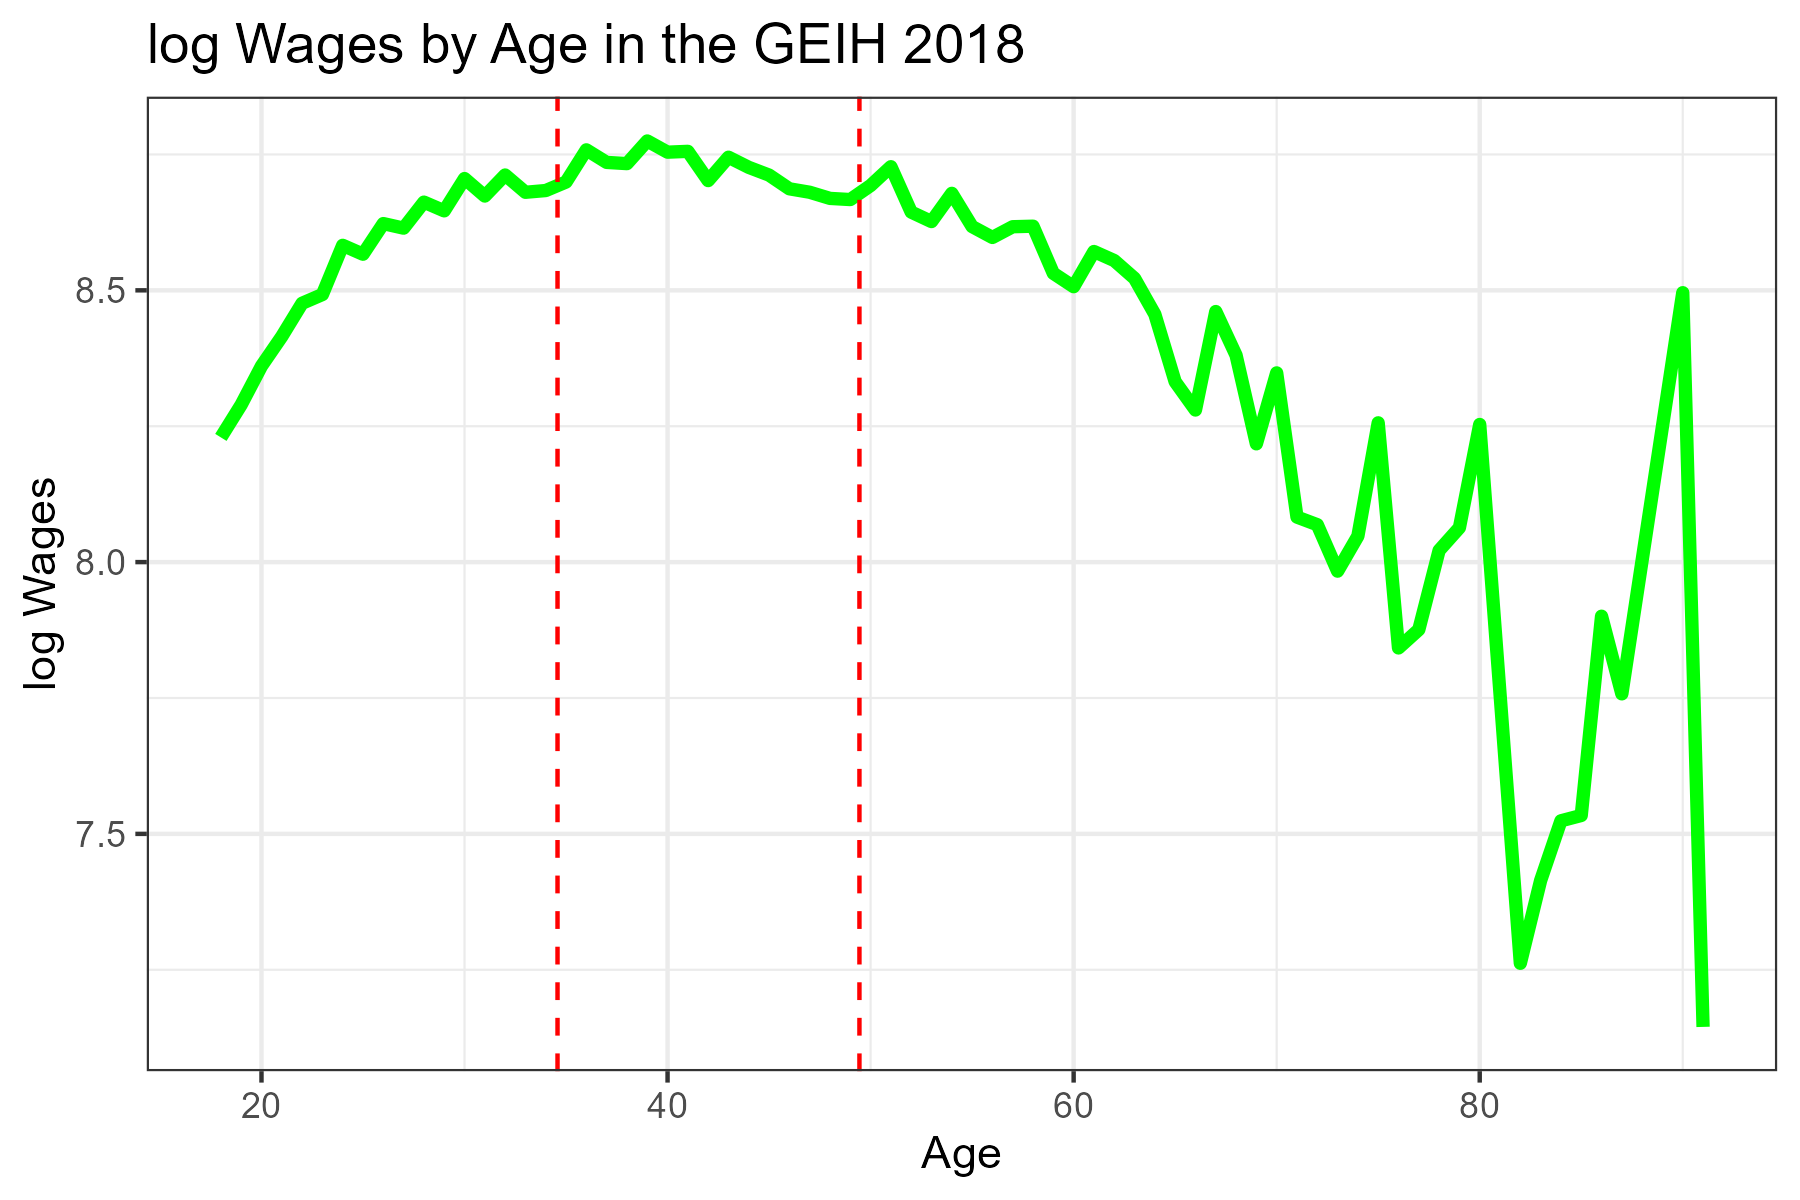
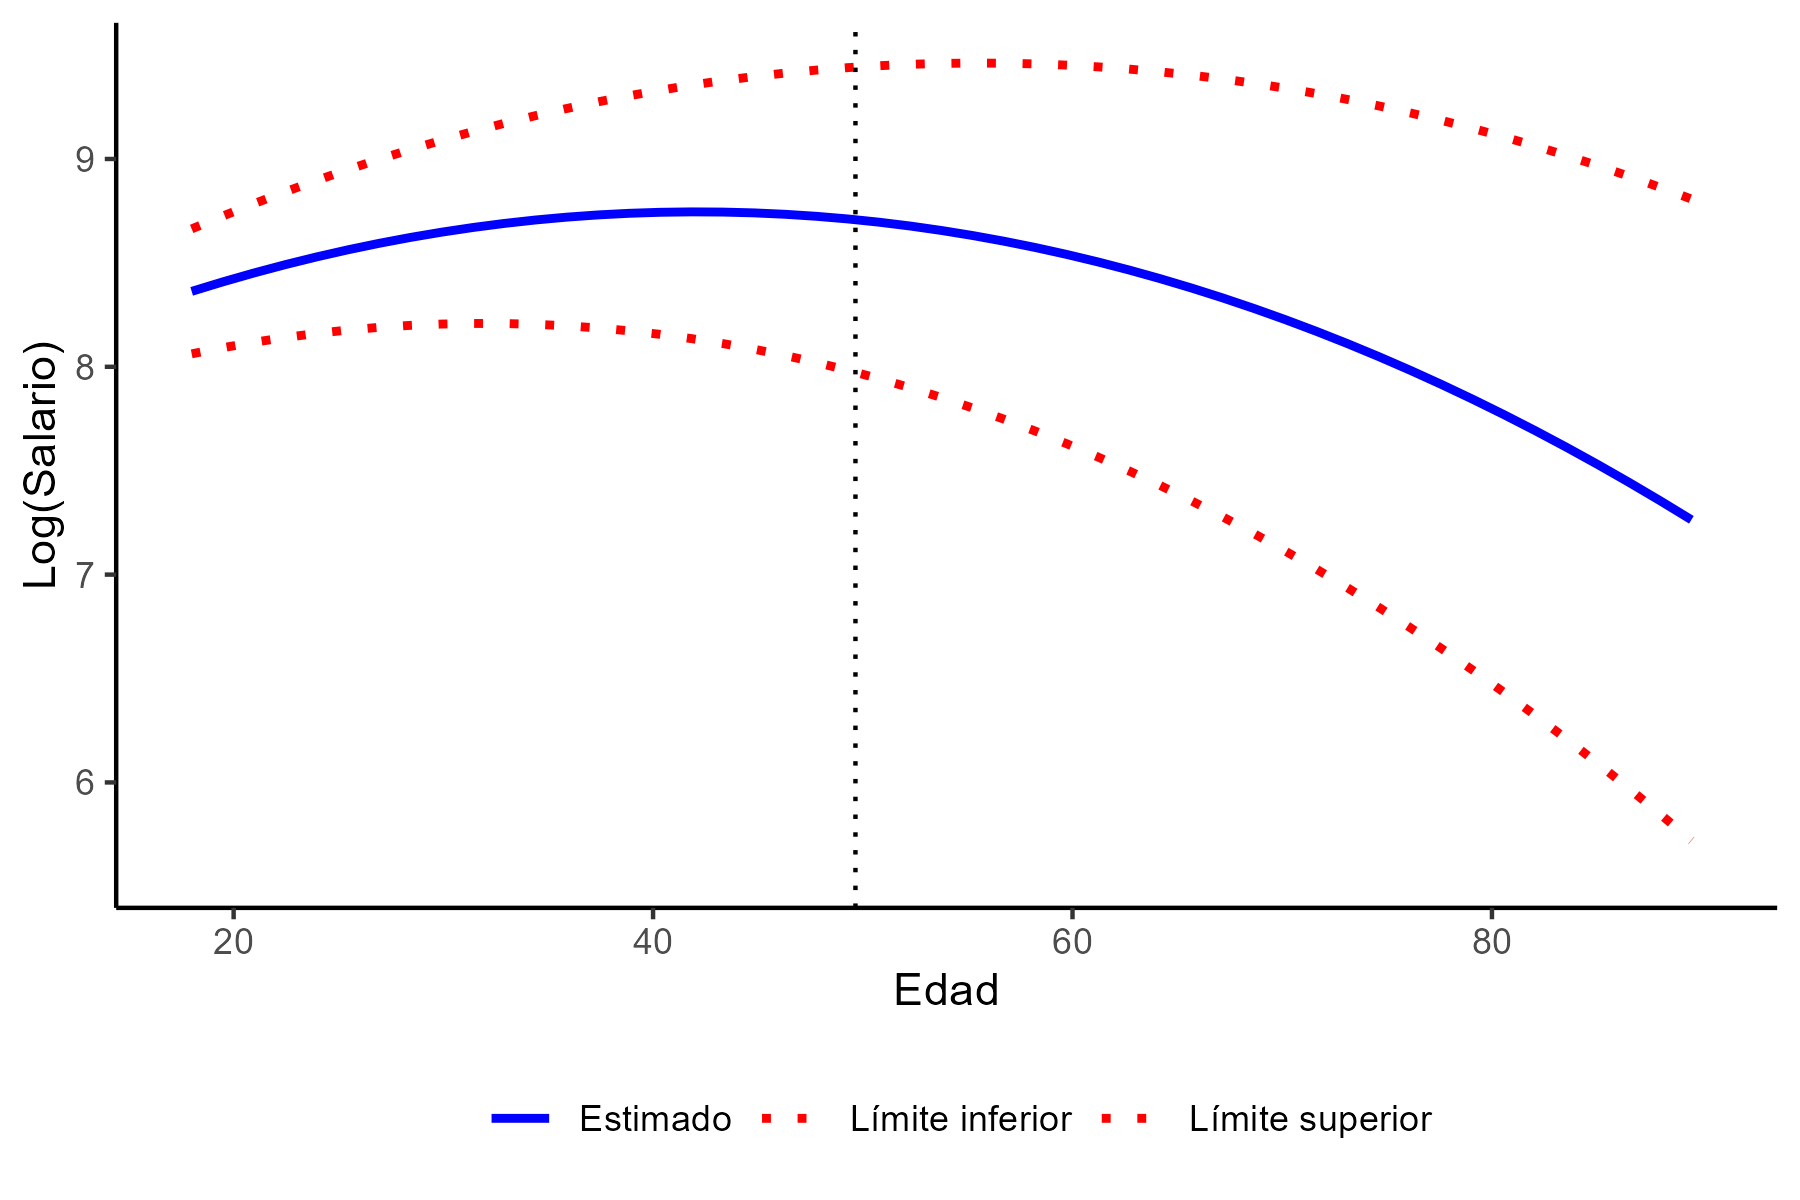
Ejemplo: perfil salarial - sexo

diff --git a/document/Document.tex b/document/Document.tex
@@ -314,6 +314,65 @@ desarrollo del Problem Set. De esta manera, a continuación se presentan
 las estadísticas descriptivas de las variables utilizadas en los
 siguientes puntos.
 
+\begin{table}[H] \centering 
+  \caption{Estadísticas descriptivas. Variables continuas} 
+  \label{} 
+\begin{tabular}{@{\extracolsep{5pt}}lcccccc} 
+\\[-1.8ex]\hline 
+\hline \\[-1.8ex] 
+Statistic & \multicolumn{1}{c}{N} & \multicolumn{1}{c}{Mean} & \multicolumn{1}{c}{St. Dev.} & \multicolumn{1}{c}{Min} & \multicolumn{1}{c}{Median} & \multicolumn{1}{c}{Max} \\ 
+\hline \\[-1.8ex] 
+Ingreso laboral (miles) & 9,892 & 1,745.42 & 2,403.44 & 20.00 & 1,032.56 & 60,100.00 \\ 
+Experiencia laboral & 16,541 & 22.01 & 15.16 & $-$7 & 19 & 81 \\ 
+Edad & 16,542 & 39.44 & 13.48 & 18 & 38 & 94 \\ 
+Años de escolaridad & 16,541 & 11.43 & 4.34 & 0 & 11 & 26 \\ 
+\hline \\[-1.8ex] 
+\end{tabular} 
+\end{table}
+
+\begin{table}[H]
+
+\begin{center}
+\begin{threeparttable}
+
+\caption{\label{tab:descriptive_categorical}Frecuencias variables categóricas}
+
+\begin{tabular}{llr}
+\toprule
+Variable & \multicolumn{1}{c}{N} & \multicolumn{1}{c}{\%}\\
+\midrule
+Posición ocupacional &  & \\
+\ \ \ Obrero, empleado particular & 9342 & 56.47\\
+\ \ \ Obrero, empleado del gobierno & 632 & 3.82\\
+\ \ \ Empleado doméstico & 578 & 3.49\\
+\ \ \ Trabajador por cuenta propia & 5106 & 30.87\\
+\ \ \ Patrón o empleador & 626 & 3.78\\
+\ \ \ Trabajador familiar sin remuneración & 207 & 1.25\\
+\ \ \ Trabajador sin remuneración en empresas de otros hogares & 41 & 0.25\\
+\ \ \ Jornalero o Peón & 1 & 0.01\\
+\ \ \ Otro & 9 & 0.05\\
+Sector &  & \\
+\ \ \ Agricultura, ganadería, caza, silvicultura y pesca & 106 & 0.64\\
+\ \ \ Explotación de Minas y Canteras & 50 & 0.30\\
+\ \ \ Industria manufacturera & 2470 & 14.93\\
+\ \ \ Suministro de Electricidad Gas y Agua & 77 & 0.47\\
+\ \ \ Construcción & 881 & 5.33\\
+\ \ \ Comercio, hoteles y restaurantes & 4581 & 27.69\\
+\ \ \ Transporte, almacenamiento y comunicaciones & 1484 & 8.97\\
+\ \ \ Intermediación financiera & 496 & 3.00\\
+\ \ \ Actividades inmobiliarias, empresariales y de alquiler & 2534 & 15.32\\
+\ \ \ Servicios comunales, sociales y personales & 3863 & 23.35\\
+Sexo &  & \\
+\ \ \ Hombre & 8767 & 53.00\\
+\ \ \ Mujer & 7775 & 47.00\\
+\bottomrule
+\end{tabular}
+
+\end{threeparttable}
+\end{center}
+
+\end{table}
+
 De las 32177 observaciones, se puede observar la tasa de valores
 perdidos de las variables de interés:
 
@@ -338,9 +397,11 @@ experiencia y habilidades especializadas, por lo que sus salarios son
 más bajos al inicio de sus carreras. A partir de algún momento de la
 edad adulta, las capacidades cognitivas y físicas empiezan a disminuir.
 
-Por tal motivo, se plantea estimar la siguiente regresión por medio de
-Mínimos Cuadrados Ordinarios para analizar la relación entre salarios y
-edad:
+Estudiar esta relación es importante en la medida en que es importante
+determinar los salarios por edad con el fin de realizar un perfilamiento
+de los ingresos por grupos de edad. Por tal motivo, se plantea estimar
+la siguiente regresión por medio de Mínimos Cuadrados Ordinarios para
+analizar la relación entre salarios y edad:
 
 \[
 log(salario_i)=\beta_0{}+\beta_1 Edad +\beta_2  Edad^2 +u_i
@@ -359,35 +420,83 @@ endogeneidad (en la medida en la que la edad está correlacionada con
 otras variables como la educación y la experiencia), decidimos hacer un
 ejercicio adicional, en el que se incluyen controles con el fin de
 mejorar la inferencia causal. Las variables explicativas que agregamos
-son:
+son: horas trabajadas a la semana, el sexo de los individuos, ocupación,
+tipo de ocupación y su máximo nivel educativo.
 
-En la tabla \# se puede observar el resultado de esta estimación. El
-coeficiente de la variable edad indica que, en promedio, un aumento de
-un año en la edad está asociado con un increento en el salario del
-6.4\%. En cuanto al coeficiente de la variable edad al cuadrado, se
-interpretaría como un aumento de la edad al cuadrado está asociado con
-una disminución del salario en 0.1\%. El signo de este estimador indica
-que existe una relación de u invertida entre la educación y el salario.
-Este es el signo esperado según la literatura. Sin embargo, si derivamos
-la función con respecto a la edad, encontramos que para interpretar el
-coeficiente de la edad depende de la edad que se analiza.
+En la tabla tal se pueden observar los resultados de las estimaciones.
+La columna 1 muestra los resultados de la estimación sin controles,
+mientras que la columna 2 presenta la regresión con controles. Se puede
+observar que, en promedio, un aumento de un año en la edad está asociado
+con un incremento en el salario del 5.5\% (modelo sin controles) y del
+6.4\% (modelo con controles). Estos resultados muestran que nuestra
+especificación es robusta en la medida en que los resultados no
+presentan un gran cambio en magnitud. Sin embargo, debido a que estamos
+estimando una relación no lineal entre la edad y el salario, la
+interpretación no es tan intuitivamente porque debemos tener en cuenta
+el \(\beta_2\) de la regresión.
+
+En cuanto al coeficiente de la variable edad al cuadrado no cambia para
+ninguno de los modelos. Lo más importante de este coeficiente es su
+signo negativo. Esto indica que hay una relación cóncava entre el
+salario y la edad, resultado esperado por la teoría. Para poder
+interpretar correctamente el coeficiente de la edad, debemos derivar con
+respecto a la edad:
 
 \[
-\partial{log(salario_i)}{Edad}=\beta_1 Edad +2 \beta_2 Edad
+\partial{log(salario_i)}{Edad}=\beta_1  +2 \beta_2 Edad
 \]
 
-Para realizar un análisis con base al promedio, encontramos el promedio
-de edad de la base de datos y realizamos el análisis de esta función.
+Encontramos que la interpretación depende del nivel de edad que se
+analiza. Para realizar el análisis, estimamos la edad promedio de la
+base de datos (38 años). Encontramos que, para un individuo con una edad
+de 38 años, un año adicional está asociado con un aumento en el salario
+del 1.7\%. Para la interpretación del \(\beta_{0}\), sería como el
+logaritmo del salario promedio cuando las personas tienen 0 años de
+edad. Aunque esta puede tener una intepretación poco intuitiva, debido a
+que nuestra muestra está acotada a personas de 18 años, se interpretaría
+como el salario promedio cuando los individuos inician su vida laboral.
 
 En cuanto a la interpretación del coeficiente de determinación(r2) nos
-indica que aproximadamente el 34\% de la variación del logaritmo del
-salario es explicada por la edad. Esta medida es esperada debido a que
-existen múltiples factores que están expresados en la u y que pueden
-explicar también los salarios.
+indica que, aproximadamente, el 2.3\% de la variación del logaritmo del
+salario es explicada por la edad. Aunque este r2 puede ser bajo, es
+explicado porque existen muchos más factores que explican el salario.
+Por esto, cuando vemos el r2 del modelo con controles, encontramos que
+ell r2 se incrementa hasta aproximadamente el 34\%. Sin embargo, estas
+variables son significativas a un nivel de significancia del 5\%, lo que
+indica que la edad es un determinante del salario.
 
-Resultados de la significancia conjunta
+Ahora, vamos a encontrar la edad en la que empiezan a disminuir los
+ingresos de las personas. Para hacerlo, debemos encontrar el punto
+máximo de la función que estimamos e igualar a cero. Haciendo el
+procedimiento, obtenemos que esta edad máxima está dada por: \$
+edad\_\{max\}=-\beta\_1/2\beta\_2\$. Reemplazando estos valores en esta
+ecuación, encontramos que la edad máxima en la que se alcanza el máximo
+rendimiento de los salarios se alcanzan a los 49.65 años. Este valor es
+esperado según la literatura (citar literatura).
 
-Resultados del ``peak'' del salario con bootstrap.
+Para analizar esto mejor, en la figura tal se puede observar la relación
+entre la edad y los salarios. En la primera mitad de la gráfica, se
+puede observar que aumentan los salarios a medida que aumenta la edad.
+Esto es explicado debido a que las personas cuentan con cada vez más
+experiencia y habilidades, hasta llegar a su máximo ingreso a los 49.65
+años, en los que los incrementos comienzan a disminuir hasta niveles más
+bajos que los incrementos al comienzo de su vida laboral. Como se
+discutió al principio de la sección, puede deberse a múltiples razaones
+como un retraso en el aprendizaje de nuevas habilidades por la reducción
+de capacidad cognitiva, lo que implica tener más dificultad para
+ascender o encontrar empleos con mayores ingresos.
+
+En la fráfica anterior también se pueden observar los intervalos de
+confianza al nivel de confianza del 95\%. Estos intervalos fueron
+construidos con errores estándar boortraps, en la que se relizaron 1000
+repeticiones de la regresión sin controles con un resampleo de la
+muestra para cada repetición. Es importante notar que estos intervalos
+crecen a medida que la edad aumeta, esto puede deberse a que existe
+mucha heterogeneidad de salarios en las personas con edades mayores,
+porque, por ejemplo, existen personas con salarios muy altos (con
+posiciones gerenciales, por ejemplo) mientras que otras personas
+continuaron con puestos relativamente bajos o que están cerca de la edad
+de jubilación, por lo que sus salarios disminuirían.
 
 \hypertarget{brechas-de-ingreso-por-sexo}{%
 \section{Brechas de ingreso por
@@ -405,7 +514,7 @@ modelo univariado:
   \label{gap0}
 \end{equation}
 
-\begin{table}[!htbp] \centering 
+\begin{table}[H] \centering 
   \caption{Estimando brecha de género} 
   \label{} 
 \begin{tabular}{@{\extracolsep{5pt}}lcc} 
